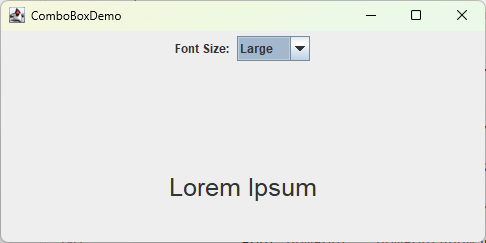
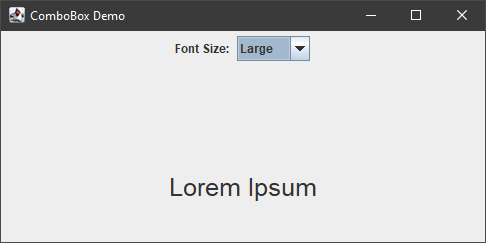
screenshots ausgetauscht bzw. neu

Changed region(s): [[0.0, 0.0, 1.0, 1.0]]

diff --git a/src/de/mide/patterns/observer/ComboBoxDemo.java b/src/de/mide/patterns/observer/ComboBoxDemo.java
@@ -26,8 +26,10 @@ import javax.swing.JPanel;
  */
 class FontSizeAndName {
 	
+	/** Arial font with particular size. */
 	private Font _font = null;
 	
+	/** Name of font size to be shown in ComboBox. */
 	private String _displayName = null;
 	
 	
@@ -139,7 +141,7 @@ public class ComboBoxDemo extends JFrame {
 		
 		ComboBoxDemo comboBoxDemo = new ComboBoxDemo();
 		comboBoxDemo.setSize( 500, 250 );
-		comboBoxDemo.setTitle( "ComboBoxDemo" );
+		comboBoxDemo.setTitle( "ComboBox Demo" );
 		comboBoxDemo.setVisible( true );
 		comboBoxDemo.setLocation( 300, 300 );
 		comboBoxDemo.setDefaultCloseOperation( EXIT_ON_CLOSE );
